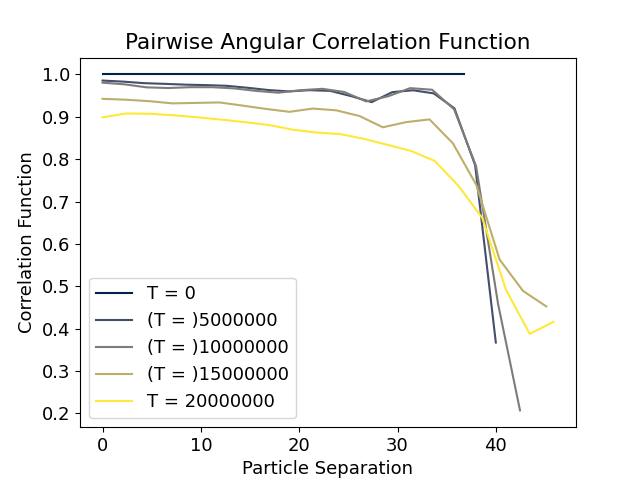
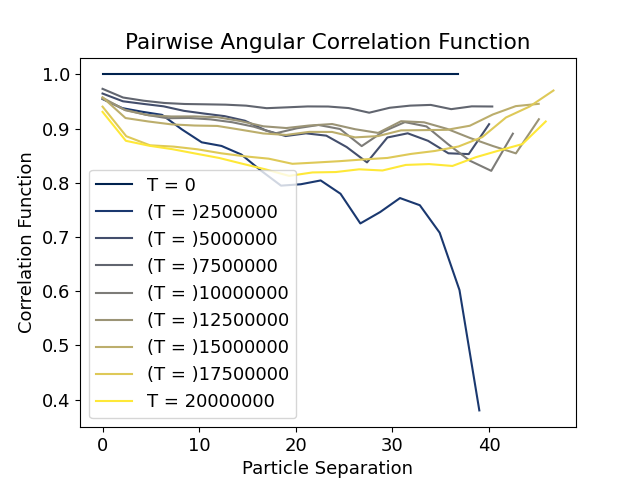
Corrected correlation plots

diff --git a/Phase_Structure/Rigid_Rods2/Crystalline/correlation.plot.py b/Phase_Structure/Rigid_Rods2/Crystalline/correlation.plot.py
@@ -5,8 +5,9 @@ from scipy.ndimage import uniform_filter1d  # for rolling average
 from phase_plot import vol_frac
 
 FILE_ROOT = "output_T_0.5_time_"  # two underscores to match typo in previous code
-SAMPLING_FREQ = 1000  # only samples one in X files (must be integer)
+SAMPLING_FREQ = 500  # only samples one in X files (must be integer)
 SEPARATION_BIN_NUM = 20  # number of bins for radius dependance pair-wise correlation
+mol_length = 10
 
 plt.rcParams.update({"font.size": 13})  # for figures to go into latex at halfwidth
 
@@ -15,8 +16,6 @@ plt.rcParams.update({"font.size": 13})  # for figures to go into latex at halfwi
 file_name = "log.lammps"
 log_file = open(file_name, "r")
 mix_steps_values = []
-
-mol_length = 10
 
 for i, line in enumerate(log_file):
     """For loop iteratres over every line in file to find the required variables.
@@ -102,15 +101,14 @@ def eval_angle_array(data):
     angle_array = np.zeros((N_molecules, N_molecules, 2), dtype=np.float32)
     # dtype specified to reduce storgae required
 
-    rod_1 = data[:, 1, :] - data[:, 0, :]  # director vector for first end of molecule
-    rod_2 = data[:, 2, :] - data[:, 1, :]  # director vector for second end of molecule
+    director = data[:, 2, :] - data[:, 0, :]  # director vector for whole of molecule
 
     for i in range(N_molecules):
         for j in range(N_molecules):
             # Separation between centres of each molecule:
             angle_array[i, j, 0] = np.linalg.norm(data[i, 1, :] - data[j, 1, :])
             # Angle between arms of molecule:
-            angle_array[i, j, 1] = find_angle(rod_1[i, :], rod_2[j, :])
+            angle_array[i, j, 1] = find_angle(director[i, :], director[j, :])
 
     return angle_array
 
@@ -123,32 +121,22 @@ def correlation_func(data):
     separation_bins = np.linspace(0, max_separation, SEPARATION_BIN_NUM, endpoint=False)
     correlation_data = np.zeros_like(separation_bins)
 
-    # for n, radius in enumerate(separation_bins):
-    #     sum = 0  # running total of legendre polynomials
-    #     count = 0  # for calculation of average value
-    #     for value in np.nditer(angle_array):
-    #         if angle_array[i, j, 0] > radius and angle_array[i, j, 0] < (
-    #             radius + bin_width
-    #         ):
-    #             sum_values += np.polynomial.legendre.legval(
-    #                 angle_array[i, j, 1], [0, 0, 1]
-    #             )
-    #             # finds second order legendre polynomial
-    #             count += 1
-    #     correlation_data[n] = sum_values / count
-
     for n, radius in enumerate(separation_bins):
         # mask data outside the relevant radius range
-        relevant_data = np.ma.masked_where(
+        relevant_angles = np.ma.masked_where(
             np.logical_or(
                 (angle_array[:, :, 0] < radius),
                 (angle_array[:, :, 0] > (radius + bin_width)),
             ),
             angle_array[:, :, 1],  # act on angle data
         )
-        correlation_data[n] = np.mean(relevant_data)
+        legendre_polynomials = np.polynomial.legendre.legval(
+            relevant_angles[:, :], [0, 0, 1]
+        )
 
-        print("    radius = " + str(radius) + "/" + str(max_separation))
+        correlation_data[n] = np.mean(legendre_polynomials)
+
+        print("    radius = " + str(int(radius)) + "/" + str(int(max_separation)))
 
     return separation_bins, correlation_data
 

diff --git a/Phase_Structure/Nunchucks/Fixed_Angle/correlation.plot.py b/Phase_Structure/Nunchucks/Fixed_Angle/correlation.plot.py
@@ -5,8 +5,8 @@ from scipy.ndimage import uniform_filter1d  # for rolling average
 from phase_plot import vol_frac
 
 FILE_ROOT = "output_T_0.5_time_"  # two underscores to match typo in previous code
-SAMPLING_FREQ = 100  # only samples one in X files (must be integer)
-SEPARATION_BIN_NUM = 10  # number of bins for radius dependance pair-wise correlation
+SAMPLING_FREQ = 20  # only samples one in X files (must be integer)
+SEPARATION_BIN_NUM = 20  # number of bins for radius dependance pair-wise correlation
 
 plt.rcParams.update({"font.size": 13})  # for figures to go into latex at halfwidth
 
@@ -106,7 +106,7 @@ def eval_angle_array(data):
         for j in range(N_molecules):
             # Separation between centres of each molecule:
             angle_array[i, j, 0] = np.linalg.norm(data[i, 1, :] - data[j, 1, :])
-            # Angle between the two molecules:
+            # Angle between arms of molecule:
             angle_array[i, j, 1] = find_angle(director[i, :], director[j, :])
 
     return angle_array
@@ -120,30 +120,20 @@ def correlation_func(data):
     separation_bins = np.linspace(0, max_separation, SEPARATION_BIN_NUM, endpoint=False)
     correlation_data = np.zeros_like(separation_bins)
 
-    # for n, radius in enumerate(separation_bins):
-    #     sum = 0  # running total of legendre polynomials
-    #     count = 0  # for calculation of average value
-    #     for value in np.nditer(angle_array):
-    #         if angle_array[i, j, 0] > radius and angle_array[i, j, 0] < (
-    #             radius + bin_width
-    #         ):
-    #             sum_values += np.polynomial.legendre.legval(
-    #                 angle_array[i, j, 1], [0, 0, 1]
-    #             )
-    #             # finds second order legendre polynomial
-    #             count += 1
-    #     correlation_data[n] = sum_values / count
-
     for n, radius in enumerate(separation_bins):
         # mask data outside the relevant radius range
-        relevant_data = np.ma.masked_where(
+        relevant_angles = np.ma.masked_where(
             np.logical_or(
                 (angle_array[:, :, 0] < radius),
                 (angle_array[:, :, 0] > (radius + bin_width)),
             ),
             angle_array[:, :, 1],  # act on angle data
         )
-        correlation_data[n] = np.mean(relevant_data)
+        legendre_polynomials = np.polynomial.legendre.legval(
+            relevant_angles[:, :], [0, 0, 1]
+        )
+
+        correlation_data[n] = np.mean(legendre_polynomials)
 
         print("    radius = " + str(int(radius)) + "/" + str(int(max_separation)))
 
@@ -221,7 +211,9 @@ for i, time in enumerate(time_range):  # interate over dump files
 
     tot_plot_num = len(time_range)
     colors = plt.cm.cividis(np.linspace(0, 1, tot_plot_num))
-    if i == 0 or i == tot_plot_num - 1:
+    if i == 0:
+        continue
+    if i == 1 or i == tot_plot_num - 1:
         # label only start and end points
         # plt.hist(
         #     angle_data,

diff --git a/Phase_Structure/Nunchucks/Fixed_Rigidity/correlation.plot.py b/Phase_Structure/Nunchucks/Fixed_Rigidity/correlation.plot.py
@@ -6,7 +6,7 @@ from phase_plot import vol_frac
 
 FILE_ROOT = "output_T_0.5_time_"  # two underscores to match typo in previous code
 SAMPLING_FREQ = 100  # only samples one in X files (must be integer)
-SEPARATION_BIN_NUM = 10  # number of bins for radius dependance pair-wise correlation
+SEPARATION_BIN_NUM = 20  # number of bins for radius dependance pair-wise correlation
 
 plt.rcParams.update({"font.size": 13})  # for figures to go into latex at halfwidth
 
@@ -122,14 +122,18 @@ def correlation_func(data):
 
     for n, radius in enumerate(separation_bins):
         # mask data outside the relevant radius range
-        relevant_data = np.ma.masked_where(
+        relevant_angles = np.ma.masked_where(
             np.logical_or(
                 (angle_array[:, :, 0] < radius),
                 (angle_array[:, :, 0] > (radius + bin_width)),
             ),
             angle_array[:, :, 1],  # act on angle data
         )
-        correlation_data[n] = np.mean(relevant_data)
+        legendre_polynomials = np.polynomial.legendre.legval(
+            relevant_angles[:, :], [0, 0, 1]
+        )
+
+        correlation_data[n] = np.mean(legendre_polynomials)
 
         print("    radius = " + str(int(radius)) + "/" + str(int(max_separation)))
 
@@ -207,7 +211,9 @@ for i, time in enumerate(time_range):  # interate over dump files
 
     tot_plot_num = len(time_range)
     colors = plt.cm.cividis(np.linspace(0, 1, tot_plot_num))
-    if i == 0 or i == tot_plot_num - 1:
+    if i == 0:
+        continue
+    if i == 1 or i == tot_plot_num - 1:
         # label only start and end points
         # plt.hist(
         #     angle_data,

diff --git a/Phase_Structure/Rigid_Rods2/correlation.plot.py b/Phase_Structure/Rigid_Rods2/correlation.plot.py
@@ -8,6 +8,8 @@ FILE_ROOT = "output_T_0.5_time_"  # two underscores to match typo in previous co
 SAMPLING_FREQ = 100  # only samples one in X files (must be integer)
 SEPARATION_BIN_NUM = 10  # number of bins for radius dependance pair-wise correlation
 
+mol_length = 10
+
 plt.rcParams.update({"font.size": 13})  # for figures to go into latex at halfwidth
 
 # READ PARAMETER VALUES FROM LOG FILE
@@ -15,8 +17,6 @@ plt.rcParams.update({"font.size": 13})  # for figures to go into latex at halfwi
 file_name = "log.lammps"
 log_file = open(file_name, "r")
 mix_steps_values = []
-
-mol_length = 10
 
 for i, line in enumerate(log_file):
     """For loop iteratres over every line in file to find the required variables.
@@ -124,14 +124,18 @@ def correlation_func(data):
 
     for n, radius in enumerate(separation_bins):
         # mask data outside the relevant radius range
-        relevant_data = np.ma.masked_where(
+        relevant_angles = np.ma.masked_where(
             np.logical_or(
                 (angle_array[:, :, 0] < radius),
                 (angle_array[:, :, 0] > (radius + bin_width)),
             ),
             angle_array[:, :, 1],  # act on angle data
         )
-        correlation_data[n] = np.mean(relevant_data)
+        legendre_polynomials = np.polynomial.legendre.legval(
+            relevant_angles[:, :], [0, 0, 1]
+        )
+
+        correlation_data[n] = np.mean(legendre_polynomials)
 
         print("    radius = " + str(int(radius)) + "/" + str(int(max_separation)))
 

diff --git a/Phase_Structure/Rigid_Rods2/Double_Length_Rods/correlation.plot.py b/Phase_Structure/Rigid_Rods2/Double_Length_Rods/correlation.plot.py
@@ -16,8 +16,6 @@ file_name = "log.lammps"
 log_file = open(file_name, "r")
 mix_steps_values = []
 
-mol_length = 16
-
 for i, line in enumerate(log_file):
     """For loop iteratres over every line in file to find the required variables.
 
@@ -124,14 +122,18 @@ def correlation_func(data):
 
     for n, radius in enumerate(separation_bins):
         # mask data outside the relevant radius range
-        relevant_data = np.ma.masked_where(
+        relevant_angles = np.ma.masked_where(
             np.logical_or(
                 (angle_array[:, :, 0] < radius),
                 (angle_array[:, :, 0] > (radius + bin_width)),
             ),
             angle_array[:, :, 1],  # act on angle data
         )
-        correlation_data[n] = np.mean(relevant_data)
+        legendre_polynomials = np.polynomial.legendre.legval(
+            relevant_angles[:, :], [0, 0, 1]
+        )
+
+        correlation_data[n] = np.mean(legendre_polynomials)
 
         print("    radius = " + str(int(radius)) + "/" + str(int(max_separation)))
 
